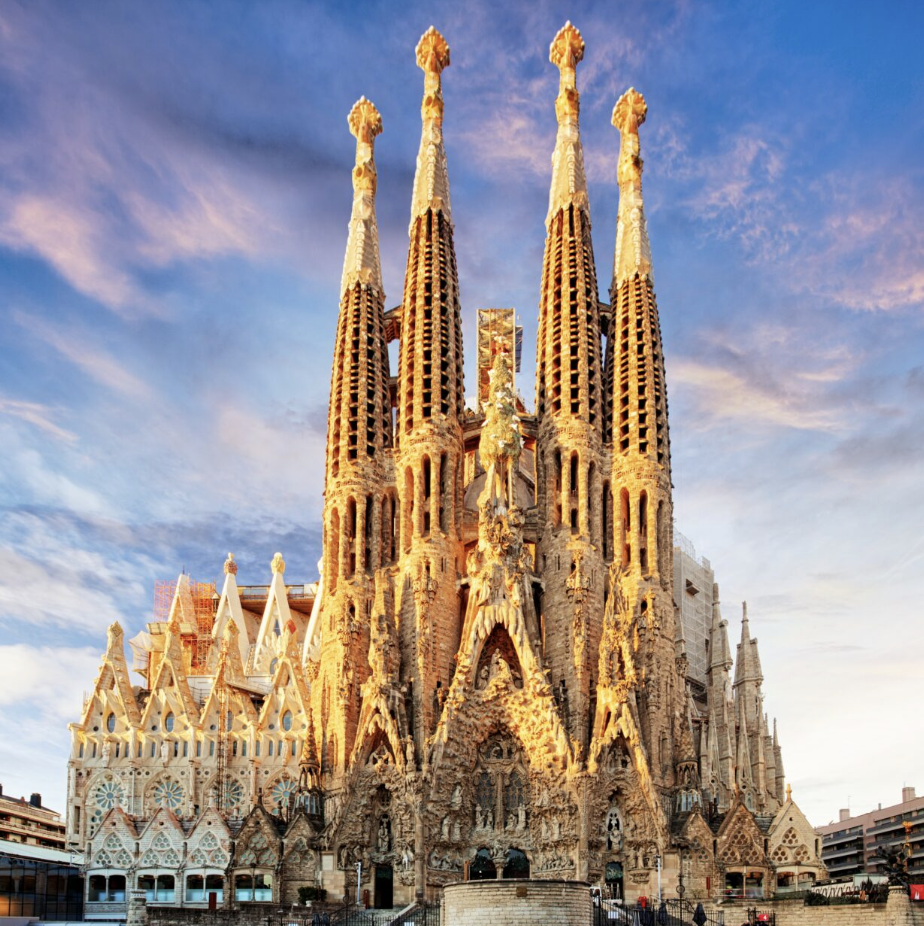
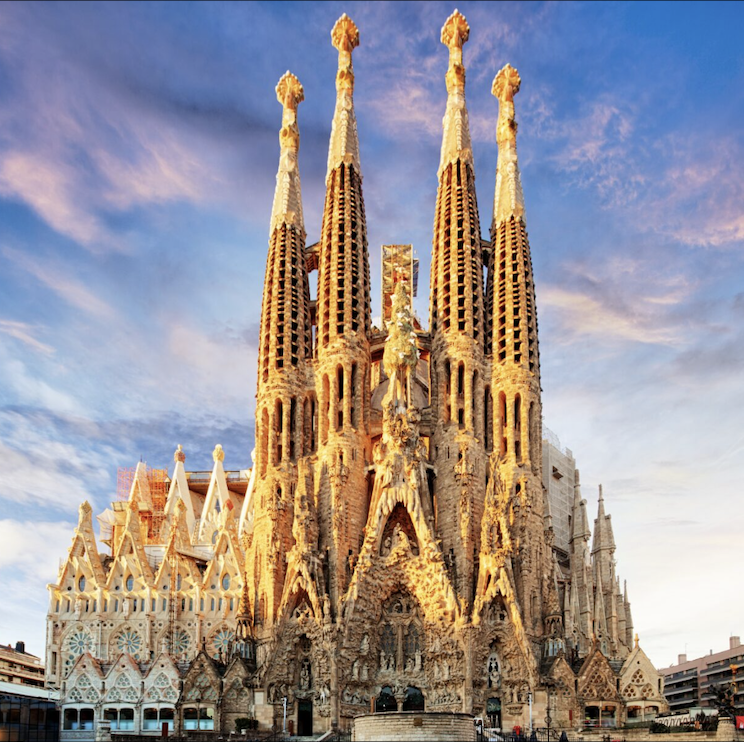
third commit with resized images

diff --git a/planning.md b/planning.md
@@ -1,0 +1,8 @@
+H1 headers
+Font:  Arial, strong, large
+Font color: #B7B6C1
+Text underlined with color #94958bs
+
+p texts
+
+Font: Verdana
